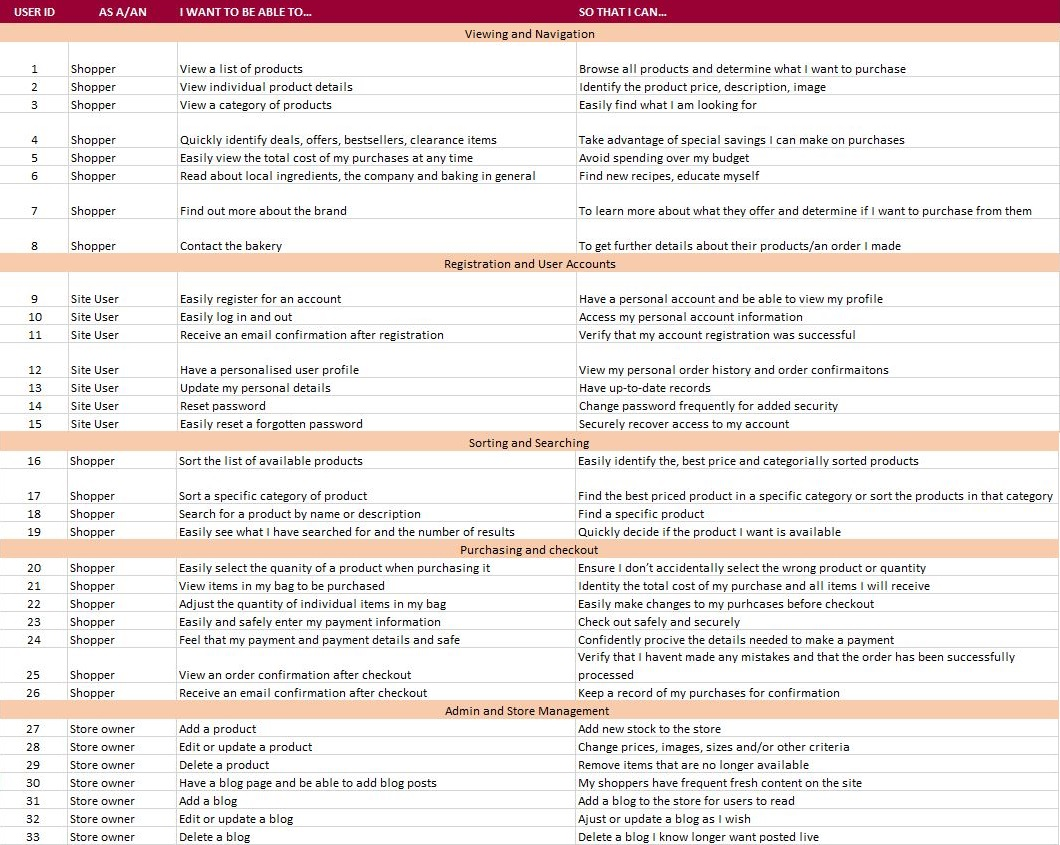
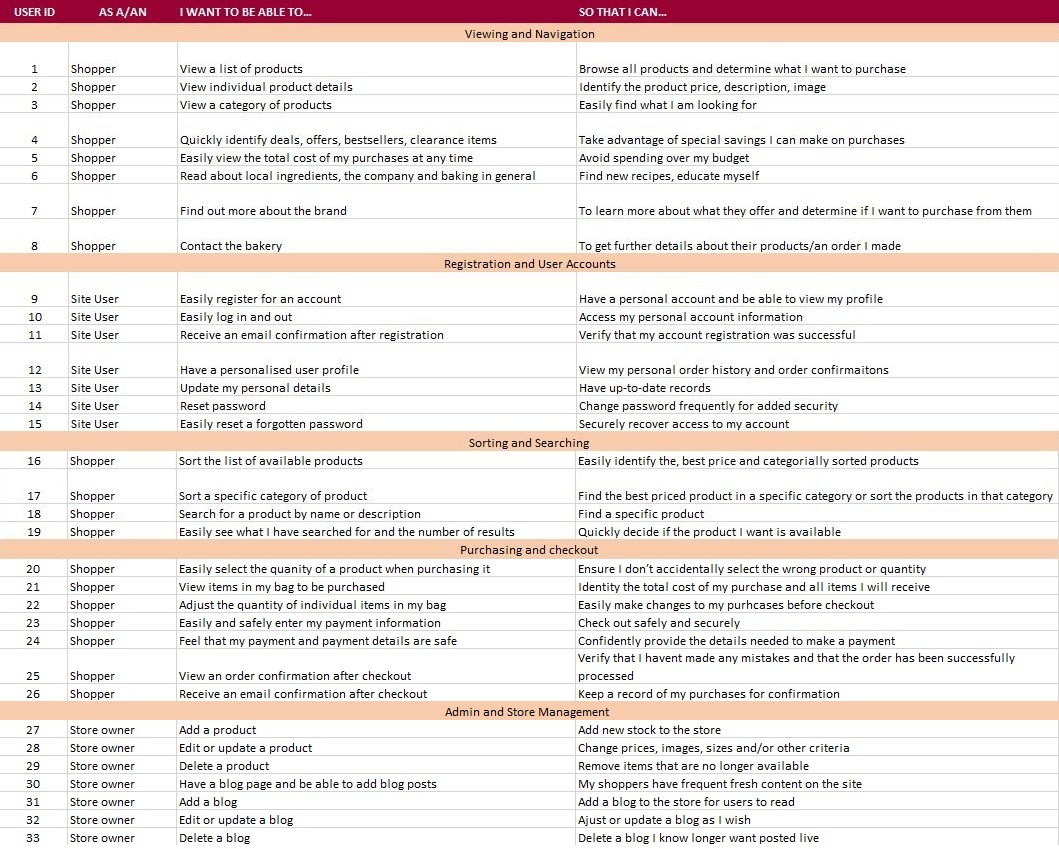
Check readme links and spell check

diff --git a/README.md b/README.md
@@ -1,4 +1,4 @@
-# Crwst project
+# Crwst Project
 
 ![Crwst](readme/images/crwstmockup.jpg)
 
@@ -6,7 +6,7 @@ The main goal for this project was to produce a full-stack web-development site 
 
 A live version of the site can be found [here](https://crwst.herokuapp.com)
 
-The main aim of this site it to provide the user with an online bakery inventory of items of food that they can purchase. The products have been split into 3 categories; Bakes, Bread and Savouries. The site is flexible and further products can be added. The site owner also has the ability to add blog posts and both them and registered users can comment on these blogs to form a discussion.
+The main aim of this site it to provide the user with an online bakery showing an inventory of items of food that they can purchase. The products have been split into 3 categories; Bakes, Bread and Savouries. The site is flexible and further products can be added as well as edited and deleted. The site owner also has the ability to add, edit and delete blog posts and both them and registered users can comment on these blogs to form a discussion.
 
 **For testing purposes, please use the following credit card details:**
 
@@ -16,6 +16,7 @@ Note that Stripe is test stage and not activated.
 
 `Exp:` 4242 (MM YY) 
 ` CSV:`  any 3 numbers, ie. 424 
+
 
 **For testing purposes, please use the following superuser details:**
  
@@ -46,9 +47,10 @@ Note that Stripe is test stage and not activated.
   * [Features to implement](#features-to-implement)
 * [Database Design](#database-design)
 * [Testing and Debugging](#testing-and-debugging)
-  * [Manual Testing](#manual-testing)
-  * [Automated Testing](#automated-testing)
-  * [User Testing](#user-testing)
+  * [Manual Testing](#testing-and-debugging)
+  * [Automated Testing](#testing-and-debugging)
+  * [User Testing](#testing-and-debugging)
+  * [Debugging](#testing-and-debugging)
 * [Deployment](#deployment)
   * [Hosting](#hosting)
   * [AWS](#aws)
@@ -85,7 +87,7 @@ Research from [Bakery Info](https://bakeryinfo.co.uk/bakery-market-report/bakery
 
 ### Strategy 
 
-To start I created a competitive benchmark to compare other bakeries that had an online presence and store to help determine what is this companies USP. What can it do that helps it stand out and increase customers. I have compared multiple bakery websites, including those that do and don’t have an online purchase ability, to determine how their sites are structured, how they separate their products into categories, how they structure their navigation, UI styles and what information they provide to users about products and their profiles and orders. 
+To start I created a competitive benchmark to compare other bakeries that had an online presence and store to help determine what is this company's USP. What can it do that helps it stand out and increase customers. I have compared multiple bakery websites, including those that do and don’t have an online purchase ability, to determine how their sites are structured, how they separate their products into categories, how they structure their navigation, UI styles and what information they provide to users about products and their profiles and orders. 
 
 * https://www.fabulouswelshcakes.co.uk/ 
 
@@ -125,7 +127,7 @@ From this brand comparison and market research key tasks/cases for the site are 
 | P | Allow registered users to comment on blogs | 3 | 5 |
 |   |  *Total* |  59  | 62  | 
 
-As the importance is higher than the viability this is going to work. The features that are that are the most important and achievable are: 
+As the viability is higher than the importance this is going to work. The features that are that are the most important and achievable are: 
 
 
 | A | Search function for products by keyword or ingredient 
@@ -152,13 +154,13 @@ As the importance is higher than the viability this is going to work. The featur
 
 The other features can be released in future updates. 
 
-The user will expect to be able to intuitively find products, update their cart and securely checkout. They may want to read blog posts on recipes, local information and ingredients etc. 
+The user will expect to be able to intuitively find products, update their cart and securely checkout. They may also want to read blog posts on recipes, local information and ingredients and further information about the company. 
 
-Therefore the navigation should be intuitive and simple. Global navigation will be used for conventionality. Key call to actions will have obvious UI styling with secondary actions have more subtle. For example, ‘Add to Cart’ will be a dark button, whereas ‘Keep Shopping’ will be an outline.  
+Therefore the navigation should be intuitive and simple. Global navigation will be used for conventionality. Key call to actions will have obvious UI styling with secondary actions have more subtle. For example, ‘Add to Cart’ will be a dark button, whereas ‘Keep Shopping’ will be an outlined button.
 
-A special offers banner will appear in the base template and therefore be on every page enticing the user to buy. 
+A special offers banner will appear in the base template and therefore be on every page enticing the user to buy. This will have javascript that animates on hover and on click links back to the products page.
 
-From the menu the user can find products and sort them by category, price, and alphabetically. 
+From the menu the user can find products by clicking shop and opt to sort them by category, price, and alphabetically. 
 
 A search bar will be on the base template and as such every page so a user can quickly search for a product at any point. This searches the titles of products and their descriptions to widen the search. 
 
@@ -210,11 +212,11 @@ The blog page has a search function will all blogs underneath, the same visual s
 
 Figma has been used to design the wireframes, with the designs in the below [wireframes](#wireframes) section. 
 
-Each template with derive from the base template providing visual and navigational consistency. 
+Each template will derive from the base template providing visual and navigational consistency. The navigation will be at the top of the page as per convention. 
 
 The user actions will each have the same visual style for consistency. They will have the same colour theme, the same typography, and a similar percentage of content and whitespace, padding and margins. Components will have enough space around them to breath and remain digestible for users. 
 
-It will be designed responsibly, mobile first, so that these components are visually consistent across devices but suitable for that screen. 
+It will be designed responsivly, mobile first, so that these components are visually consistent across devices but suitable for that screen. 
 
 The final design is an iteration from the original wireframes. 
 
@@ -315,7 +317,7 @@ Under the menu is a banner for special offers. It enlarges when the user hovers 
 
 There is also a footer with contact details. 
 
-* Home 
+* Home/Index
 
 This has a large image to cover the page for visual interest, with a bold call to action to link to the products page.
 
@@ -342,7 +344,7 @@ Only SuperUsers can see edit and delete links under product details.
 
 * Bag 
 
-The bag shows the items in the shoppers cart with the ability to adjust the quantities and/or remove the item. They can see the subtotal and delivery. There is a large Secure Checkout button. 
+The bag shows the items in the shoppers cart with the ability to adjust the quantities and/or remove the item. They can see the subtotal and delivery. There is a large Secure Checkout button. If a user is not signed in, they are requested to before being taken to the checkout page.
 
 * Checkout
 
@@ -356,7 +358,7 @@ If the shopper provides invalid card or shipping details they are provided feedb
 
 * Order confirmation
 
-Providing a successful order completes the shopper will be taken to this page and sent an email confirmation. This shows the full summary of their order. 
+Providing a successful order completes, the shopper will be taken to this page and sent an email confirmation. This shows the full summary of their order. 
 
 The checkout success view is defensively programmed so that only the creator of the order or a superuser can see this. It is so the url cannot be bypassed.
 
@@ -375,7 +377,7 @@ From the main navigation a user can navigate to the business’s blog page. Ther
 
 Like the products page, the user can see the total number of blogs and if searched the number of results for that keyword.
 
-Superusers can see edit/delete buttons. 
+Superusers can see edit/delete buttons for each individual blog.
 
 * Blog detail
 
@@ -383,7 +385,7 @@ A blog detail shows the blog title, blog text and published comments. Only regis
 
 Blog posts include a comment section where authorised users can post comments.  This has a maximum character length of 3000. Comments are typcially between 60-5000 so this suits. 
 
-Superusers can see edit/delete buttons. 
+Superusers can see edit/delete buttons for the blog post.
 
 * Add product/blog
 
@@ -415,7 +417,7 @@ There are many features that I would like to implement in future releases:
 * A text input field on cart page so that any dietary requirements could be noted – would need a logically caveat for the business but it’s a potential feature
 * Adding further categories such as Vegetarian or Vegan would be important for users
 * Allow Super User to add categories (this would require further development to ensure menu links were added to)
-* Add more accurate redirects links as they are not always linked for best UX – eg signing in to comment on a blog redirects to homepage 
+* Add more accurate redirects links as they are not always linked for best UX – eg signing in to comment on a blog redirects to homepage rather than the page the user signed in from.
 * Have the number of items in the cart appear in the cart icon as well as the total, as per ecommerce convention 
 * Allow shoppers to sign in and register their accounts with their social media accounts
 
@@ -426,6 +428,7 @@ There are many features that I would like to implement in future releases:
 ## Database Design
 
 Through the development of the project, SQLite3 was used as this is the default database included with Django. Note, on deployment, you are given the option to utilise PostgreSQL as this is included with Heroku.
+
 Django Allauth, specifically django.contrib.auth.models provided the User model that is used in the Profile App.
 
 There is a Bag App and a Home App however neither currently have the need for models.
@@ -435,7 +438,7 @@ There is a Bag App and a Home App however neither currently have the need for mo
 * Profiles App; User Profile Model
 * Blog App; Blog Model, Comments Model 
 
-A note on the blog app: Currently there is no maximum length for comments here, but it has been input in the html textarea as a class. Ideally it should be here in the database design and should be included in the future. 
+A note on the blog app: Currently there is no maximum length for comments in the comments model, but it has been input in the html textarea as a class. Ideally it should be here in the database design and should be included in the future. 
 
 ![Data Schema](readme/images/dataschema.png)
 
@@ -445,7 +448,7 @@ A note on the blog app: Currently there is no maximum length for comments here, 
 
 ## Testing and Debugging  
 
-Testing of the site can be found by clicking [here](https://github.com/sophnagle/crwst/blob/master/README.md#testing-and-debugging))
+Testing of the site can be found by clicking [here](https://github.com/sophnagle/crwst/blob/master/readme/testing.md#testing-and-debugging)
 
 [Back to Contents](#contents)
 
@@ -453,24 +456,25 @@ Testing of the site can be found by clicking [here](https://github.com/sophnagle
 
 ## Deployment
 
+### Hosting
+
 The site is hosted on [Heroku](www.heroku.com).
 
 The site was deployed using the following steps:
 
 * Create a new repository within GitHub.
-* Open repository in gitpod by cloning the repo from GitHub. Developed project
+* Open repository in gitpod (or workspace of your choice) by cloning the repo from GitHub
 * Create a requirements.txt file by typing pip3 freeze > requirements.txt in the terminal 
-* Log in to Heroku and selected "Create New App".
-* Select the input field "App Name" and gave app a unique name with hyphens instead of spaces.
+* Log in to Heroku and select "Create New App".
+* Select the input field "App Name" and give app a unique name with hyphens instead of spaces.
 * Select the region closest to my location
 * Select "Create App".
-* Click "Resources" and typed in Postgres in the Add-ons search bar.
-* Click "Resources" and typed in Postgres in the Add-ons search bar.
-* Select Heroku Postgres and provisioned a free Hobby Dev database.
+* Click "Resources" and type in Postgres in the Add-ons search bar.
+* Select Heroku Postgres and provision a free Hobby Dev database.
 * Retrieve the Database URL from the hidden Config Vars in "Settings" in Heroku.
-* Input the Database URL in the database path in settings.py and removed the local settings.
-* Created a Procfile and added web: web: gunicorn crwst.wsgi:application to the file.
-* Checked the Procfile to make sure there is no extra line after the first line as this can cause problems in Heroku
+* Input the Database URL in the database path in settings.py and remove the local settings.
+* Create a Procfile and add web: web: gunicorn crwst.wsgi:application to the file.
+* Check the Procfile to make sure there is no extra line after the first line as this can cause problems in Heroku
 * Push the requirements.txt and Procfile to GitHub.
 * Run migrations to build the database in Postgres.
 * Make sure settings.py file is connected to the mysql database
@@ -481,7 +485,7 @@ The site was deployed using the following steps:
 * Then use this command to load your data from the db.json file into postgres:
 ./manage.py loaddata db.json
 * Push all changes to GitHub.
-* Typed git push heroku master to push everything to Heroku.
+* Type git push heroku master to push everything to Heroku.
 * Select "Deploy" from the Heroku App menu.
 * Select "GitHub" from the "Deployment Method" section of the page.
 * Ensure my GitHub account is shown in the "Connect to GitHub" section and insert my GitHub repo name in the input field and click "Search".
@@ -551,9 +555,9 @@ In order for the static CSS, JS and media files to be stored and useable with He
 * Create a custom_storage file in your workspace
 * Finally, run python manage.py collectstatic and transfers the static info to AWS.
 
-### Local Hosting you wish to clone a copy 
+### Local Hosting
 
-If of my project you will need to:
+If you would like to make a copy of my project you will need to:
 * Navigate to my GitHub repository.
 * Click the ‘code’ button next to the Green Gitpod button.
 * Either, download the zip file or clone the repo using ‘gh repo clone’ in the terminal.
@@ -577,7 +581,7 @@ If of my project you will need to:
 
         os.environ["EMAIL_HOST_USER"] = "ADD YOUR EMAIL HOST USERNAME HERE"
 
-* The app can now be run locally by typing python manage.py in the terminal and opening the browser prompt.
+* The app can now be run locally by typing python3 manage.py runserver in the terminal and opening the browser prompt.
 
 [Back to Contents](#contents)
 
@@ -650,5 +654,9 @@ As this is a fictional site, the images were taken from [Unsplash](https://unspl
 [Home page cake](https://unsplash.com/photos/D3_u5E6E2Hg)
 
 [Crwst Team About](https://unsplash.com/photos/pMsvOrnIF3Y)
+
+--- 
+
+[Return to top](#crwst-project)
 
 [Back to Contents](#contents)

diff --git a/readme/testing.md b/readme/testing.md
@@ -14,6 +14,7 @@ The site has gone through manual, automated and user story testing as shown belo
   * [Manual Testing](#manual-testing)
   * [Automated Testing](#automated-testing)
   * [User Testing](#user-testing)
+  * [Debugging](#debugging)
 
 **For testing purposes, please use the following credit card details:**
 
@@ -89,6 +90,7 @@ JavaScript and jQuery:
 Semi colon was missing at the end of the Stripe elements JS file which has since been added. It stated this worked in the current version.
 
 Python/PEP8:
+
 All python files have been passed through the Validator and shown the following errors which have been resolved (where possible)
 
 | Python File                    | Warnings / Errors                             | Pass |
@@ -179,7 +181,7 @@ User story tests on the above user stories:
 
 These were tested through development, but have tested them all as the end of the project here too.
 
-VIEWING AND NAVIGATION
+**VIEWING AND NAVIGATION**
 
 As a **shopper** I want to be able to:
 
@@ -246,7 +248,7 @@ This user story is achieved.
 
 ![Footer](images/userstories/footer.JPG)
 
-REGISTRATION AND USER ACCOUNTS
+**REGISTRATION AND USER ACCOUNTS**
 
 As a **site user** I want to be able to: 
 
@@ -310,7 +312,7 @@ When navigating to sign in, there user is presented with a link to ‘forgot pas
 
 ![Reset Password](images/userstories/changepassword.JPG)
 
-SORTING AND SEARCHNG
+**SORTING AND SEARCHNG**
 
 As a **shopper** I want to be able to:
 
@@ -342,7 +344,7 @@ As above, when searching, the results are provided with a total of the number of
 
 This user story is achieved. 
 
-PURCHASING AND CHECKOUT 
+**PURCHASING AND CHECKOUT**
 
 As a **shopper** I want to be able to:
 
@@ -416,7 +418,7 @@ On successful completion of an order the user receives an email confirmation to 
 
 This user story is achieved. 
 
-ADMIN AND STORE MANAGEMENT
+**ADMIN AND STORE MANAGEMENT**
 
 As a **store owner** I want to be able to:
 
